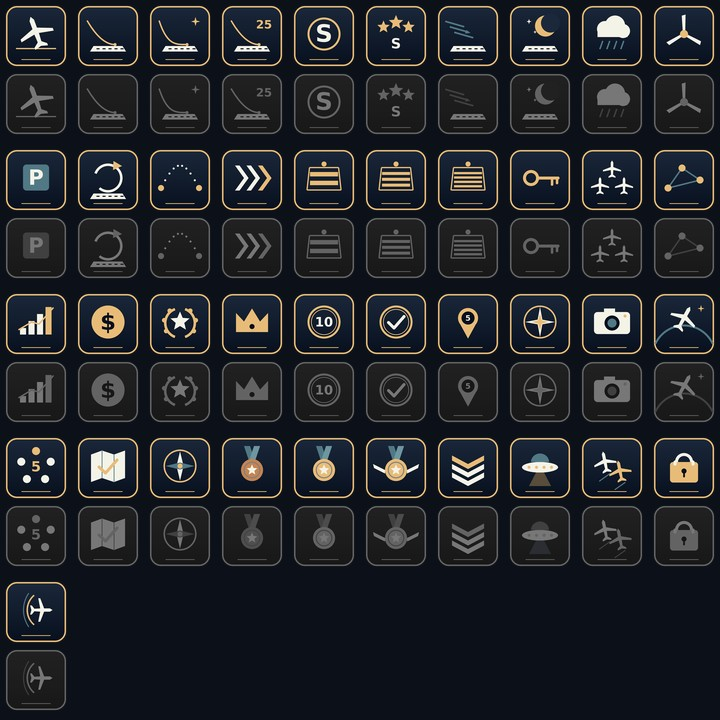
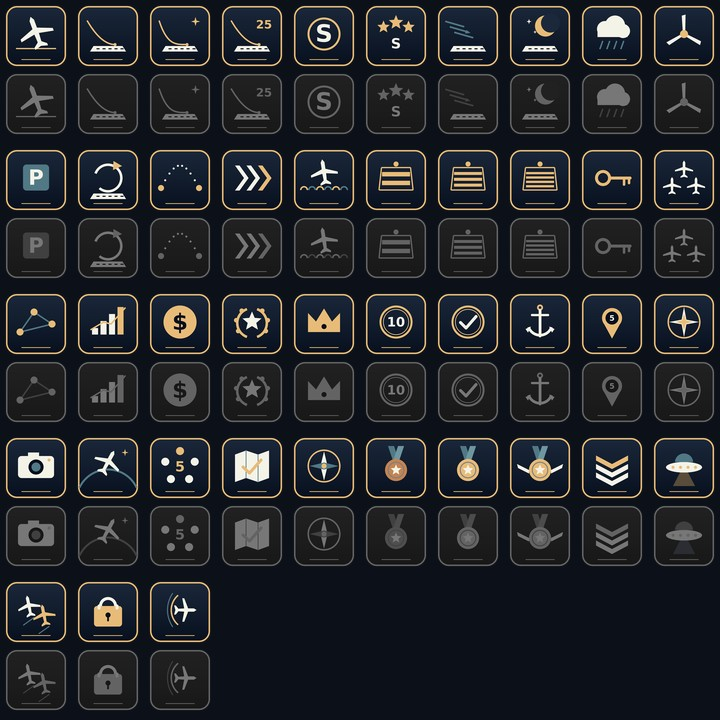
4.0 phase 5: the career on the water
- A seaplane charter on the job board: with a float plane to hand (owned
  or for hire under the pilot's licence), every board carries one job to
  a seaplane base, a little over the going rate. It is drawn from its own
  random stream, so the rest of the board and its long hauls are as they
  were. At a seaplane base every job is a float plane's.
- Two achievements: Splashdown (a first landing on the water) and Harbour
  Master (alight at all seven bases), with their Steam rows and icons.
  The islands' land airports and seaplane bases are stamped apart, so
  Every Field still counts the land airports alone.
- Loading pictures for the seven bases: the Kittiwake moored at the dock,
  seen from the shore beside it.
- Tests: the board at a base is floats only and every board at the capital
  has a charter (gameplay); Splashdown, Harbour Master and the separate
  stamp counts (profile).

Claude-Session: https://claude.ai/code/session_01PPEE1yZfPborst3wkozCEL

diff --git a/src/career.cpp b/src/career.cpp
@@ -890,6 +890,41 @@ void Career::refreshBoard() {
     for (auto& b : board) if ((b.to == c.to && b.type == c.type) || (c.type == CT_TOUR && b.type == CT_TOUR)) dup = true;   // (one photo flight a board)
     if (!dup) board.push_back(c);
   }
+  // a seaplane charter (docs/WINGS_OVER_WATER.md): when a float plane is to hand, one job more, to a seaplane base -
+  // drawn from a generator of its own, so the rest of the board (and the long hauls drawn after it) are as they were
+  {
+    int fl = -1;
+    for (int i : access) if (kAircraft[i].floats) fl = i;
+    std::vector<int> bases;
+    for (int i = 0; i < (int)g_world.airports.size(); i++) if (g_world.airports[i].water() && i != location) bases.push_back(i);
+    Rng rw(boardSeed * 2246822519u + location * 3266489917u + 0x5EA9u);
+    for (int k = 0; fl >= 0 && !bases.empty() && k < 8; k++) {
+      const int to = bases[rw.next() % bases.size()];
+      bool dup = false;
+      for (auto& b : board) dup |= b.to == to;
+      if (dup) continue;
+      const AircraftSpec& s = kAircraft[fl];
+      const Airport& A = g_world.airports[location]; const Airport& B = g_world.airports[to];
+      Contract c; c.from = location; c.to = to; c.id = fmt("W%u_%d", boardSeed, location);
+      const bool pax = license >= LIC_CPL && s.pax >= 2 && (rw.next() & 1);
+      c.type = pax ? CT_PAX : CT_CARGO;
+      if (pax) { c.pax = std::max(1, (int)(s.pax * rw.range(0.4f, 1.0f))); c.cargoKg = c.pax * 15; }
+      else c.cargoKg = std::max(20, (int)(s.cargoKg * rw.range(0.35f, 0.95f)) / 10 * 10);
+      c.minLicense = pax ? LIC_CPL : LIC_PPL;
+      if (canFly(c, fl) == SRC_NONE) continue;
+      c.payout = (int)((250 + contractKm(c) * (30 + c.cargoKg * 0.13f + c.pax * 16)) * rw.range(1.0f, 1.2f)) / 10 * 10;   // (a little over the going rate: few can fly it)
+      { int chapter = nextStory() ? nextStory()->chapter : 5; c.payout = (int)(c.payout * (1.f + 0.35f * chapter)) / 10 * 10; }
+      if (!atHome()) c.payout = c.payout * 115 / 100 / 10 * 10;
+      c.repBonusPct = repBonusPct();
+      c.payout = c.payout * (100 + c.repBonusPct) / 100 / 10 * 10;
+      c.title = pax ? fmt("Seaplane charter: %s to %s", paxNames[rw.next() % 8], B.name) : fmt("Seaplane charter: %s to %s", cargoNames[rw.next() % 10], B.name);
+      c.brief = fmt("%s from %s to the seaplane base at %s, where no runway goes: a float plane's work. Alight on the lane between the buoys and moor at the dock.",
+                    pax ? "Passengers" : "A load", A.name, B.name);
+      c.wx = W(rw.range(0, 360), rw.range(0, 12), 0, rw.range(0.05f, 0.3f), rw.range(0, 0.7f), rw.range(2500, 7000), rw.range(15, 50), 0, false, rw.range(8.f, 18.f));
+      board.push_back(c);
+      break;
+    }
+  }
   // cross-country work (the real Earth, docs/REAL_EARTH_PLAN.md E7): a load for a small field beyond this chart, 30 to
   // 180 km on - a strip, or a field no airline serves, which the long hauls never take - flown there yourself as a long
   // haul is, the charts on the way made ready as you fly. Two at most, the fields drawn afresh with each board

diff --git a/src/profile.cpp b/src/profile.cpp
@@ -24,6 +24,7 @@ const Achievement kAchievements[] = {
   {"go_around", "Better Safe", "Go around, then land", false},
   {"long_haul", "Long Haul", "Fly a single flight of 150 km or more", false},
   {"warp", "Warp Drive", "Cover 500 km in Time Warp", false},
+  {"splashdown", "Splashdown", "Land on the water in a float plane", false},
   // career
   {"lic_ppl", "Private Pilot", "Earn the private pilot licence", false},
   {"lic_cpl", "Commercial Pilot", "Earn the commercial pilot licence", false},
@@ -38,6 +39,7 @@ const Achievement kAchievements[] = {
   // exploring
   {"airports10", "Island Hopper", "Land at 10 different airports", false},
   {"airports_all", "Every Field", "Land at every airport in the islands", false},
+  {"harbours_all", "Harbour Master", "Alight at every seaplane base in the islands", false},
   {"sites5", "Sightseer", "Find 5 landmarks", false},
   {"sites_all", "Grand Tour", "Find every landmark in the islands", false},
   {"photo", "Shutterbug", "Complete a photo flight", false},
@@ -114,6 +116,14 @@ static bool inRegion(const std::string& key, const std::string& region, char mar
   return key.size() > region.size() && key[region.size()] == mark && key.compare(0, region.size(), region) == 0;
 }
 int Profile::islandAirports() const { int n = 0; for (auto& a : airports) n += !beyond(a, ':'); return n; }
+// the islands' stamps of one kind - its land airports, or its seaplane bases (docs/WINGS_OVER_WATER.md) - and how many
+// there are to collect
+int Profile::islandStamps(bool water) const {
+  int n = 0;
+  for (int i = 0; i < solaceAirportCount(); i++) { const Airport& a = solaceAirport(i); n += a.water() == water && airports.count(a.code); }
+  return n;
+}
+int islandFields(bool water) { int n = 0; for (int i = 0; i < solaceAirportCount(); i++) n += solaceAirport(i).water() == water; return n; }
 int Profile::islandSites() const { int n = 0; for (auto& s : sites) n += !beyond(s, '/'); return n; }
 int Profile::sitesBeyond() const { return (int)sites.size() - islandSites(); }
 std::vector<std::string> Profile::regionsLanded() const {

diff --git a/tests/gameplay_test.cpp b/tests/gameplay_test.cpp
@@ -1643,6 +1643,28 @@ struct GameTest {
                moored, waits, delivered, ok ? "ok" : "FAIL");
         fails += !ok;
       }
+      {   // the board on the water: at a seaplane base every job is a float plane's (none flies for a landplane there);
+          // from a land airport, with a float plane to hand, every board carries a seaplane charter to a base
+        Career k; k.license = LIC_CPL; k.money = 100000; k.region = g_world.regionId;
+        k.location = g_world.findAirport("PBL");
+        int jobs = 0, floatsOnly = 0;
+        for (unsigned seed = 1; seed <= 4; seed++) {
+          k.boardSeed = seed; k.refreshBoard();
+          for (const Contract& c : k.board) { jobs++; floatsOnly += k.canFly(c, kKittiwake) != Career::SRC_NONE && k.canFly(c, 1) == Career::SRC_NONE; }
+        }
+        k.location = g_world.findAirport("CAP");
+        int charters = 0;
+        for (unsigned seed = 1; seed <= 12; seed++) {
+          k.boardSeed = seed; k.refreshBoard();
+          int n = 0;
+          for (const Contract& c : k.board) n += g_world.airports[c.to].water() && c.title.rfind("Seaplane charter", 0) == 0 && k.canFly(c, kKittiwake) != Career::SRC_NONE;
+          charters += n == 1;
+        }
+        const bool ok = jobs >= 12 && floatsOnly == jobs && charters == 12;
+        printf("Board on the water: %d jobs at Palm Bay Lagoon in 4 draws, %d of them floats only; a seaplane charter on %d of 12 boards at the capital: %s\n",
+               jobs, floatsOnly, charters, ok ? "ok" : "FAIL");
+        fails += !ok;
+      }
       {   // a checkpoint job's leg ends safely at a field (the review of v3.44.0, CAR-5): stopped on a runway with checkpoints
           // left it waits to take off again, and the parking brake ends the leg there with the checkpoint flown carried; a
           // hold instruction ignored on that leg is still charged at the delivery, through a save and reload (CAR-6)

diff --git a/tests/profile_test.cpp b/tests/profile_test.cpp
@@ -143,6 +143,17 @@ struct GameTest {
       const bool beat = g.pbNew && fabsf(g.pbOld - 55.f) < 0.01f;
       FILE* f = fopen("profile.cfg", "r"); const bool wrote = f != nullptr; if (f) fclose(f);
       check(stamped && butter && best && beat && !wrote, "A touchdown at Far Isle: its stamp, Butter and Greaser, the type's softest, then a new best; no profile written by a test");
+      {   // on the water (docs/WINGS_OVER_WATER.md): a float plane alights at each seaplane base - Splashdown at the first,
+          // Harbour Master at the last; the islands' land airports (Every Field) are counted apart
+        g.plane.spec = &kAircraft[kKittiwake]; g.plane.onWater = true;
+        int bases = 0; bool first = false;
+        for (int i = 0; i < (int)g_world.airports.size(); i++)
+          if (g_world.airports[i].water()) { g.profileTouchdown(200.f, i); if (++bases == 1) first = g.profile.has("splashdown") && !g.profile.has("harbours_all"); }
+        const bool master = g.profile.has("harbours_all") && bases == islandFields(true) && g.profile.islandStamps(true) == bases;
+        const bool apart = g.profile.islandStamps(false) == 1 && islandFields(false) + bases == solaceAirportCount() && !g.profile.has("airports_all");
+        g.plane.spec = &s; g.plane.onWater = false;
+        check(first && master && apart && bases == 7, fmt("On the water: Splashdown at the first seaplane base, Harbour Master at the %dth; the land airports' stamps counted apart", bases));
+      }
       // over a landmark, low
       const auto& sites = profileSites();
       if (!sites.empty()) {

diff --git a/src/game_profile.cpp b/src/game_profile.cpp
@@ -31,7 +31,9 @@ void Game::award(const std::string& id) {
 }
 
 void Game::profileTouchdown(float fpm, int ap) {
-  if (botControl || researchFlight || militaryFlight || !plane.spec || ap < 0 || ap >= (int)g_world.airports.size()) return;
+  if (botControl || researchFlight || militaryFlight || !plane.spec) return;
+  if (plane.onWater) award("splashdown");   // (anywhere on the water: a base's lane or the open sea)
+  if (ap < 0 || ap >= (int)g_world.airports.size()) return;
   fpm = fabsf(fpm);
   const Airport& A = g_world.airports[ap];
   if (profile.airports.insert(airportStamp(A)).second) {   // (a region's stamps are its own: Profile::airports)
@@ -42,10 +44,10 @@ void Game::profileTouchdown(float fpm, int ap) {
       award("region_first");
       if (profile.regionsLanded().size() >= 5) award("regions5");
       if (n >= N) award("region_all");
-    } else {
-      const int n = profile.islandAirports();
-      toast(fmt("Airport stamp: %s %s (%d of %d)", A.code, A.name, n, N), vec3(1.f, 0.85f, 0.45f), false);
-      if (n >= N) award("airports_all");
+    } else {   // (the islands' land airports and their seaplane bases are collected apart)
+      const int n = profile.islandStamps(A.water()), of = islandFields(A.water());
+      toast(fmt(A.water() ? "Seaplane base stamp: %s %s (%d of %d)" : "Airport stamp: %s %s (%d of %d)", A.code, A.name, n, of), vec3(1.f, 0.85f, 0.45f), false);
+      if (n >= of) award(A.water() ? "harbours_all" : "airports_all");
     }
     if (profile.airports.size() >= 10) award("airports10");
   }

diff --git a/tools/steam/make_steam_assets.py b/tools/steam/make_steam_assets.py
@@ -172,6 +172,8 @@ def glyph(d, aid):
                               circle(d, 52, 160, 12, fill=GOLD), circle(d, 204, 160, 12, fill=GOLD)),
         'warp': lambda: ([d.polygon(P((60 + i * 46, 70), (96 + i * 46, 120), (60 + i * 46, 170), (78 + i * 46, 170), (114 + i * 46, 120), (78 + i * 46, 70)),
                                     fill=(GOLD if i == 2 else WHITE)) for i in range(3)]),
+        'splashdown': lambda: (plane(d, 128, 96, 1.5, WHITE, -0.15),
+                               [arc(d, 48 + i * 32, 168, 16, 180, 360, 6, TEAL if i % 2 else GOLD) for i in range(6)]),
         'lic_ppl': lambda: epaulette(d, 2),
         'lic_cpl': lambda: epaulette(d, 3),
         'lic_atp': lambda: epaulette(d, 4),
@@ -191,6 +193,9 @@ def glyph(d, aid):
                            circle(d, 128, 138, 10, fill=NAVY_BOTTOM + (255,))),
         'airports10': lambda: stamp(d, '10'),
         'airports_all': lambda: stamp(d, '', True),
+        'harbours_all': lambda: (circle(d, 128, 62, 12, outline=GOLD, w=7), line(d, [(128, 74), (128, 176)], 11, WHITE),
+                                 line(d, [(96, 92), (160, 92)], 9, WHITE), arc(d, 128, 124, 54, 20, 160, 11, WHITE),
+                                 d.polygon(P((70, 148), (92, 138), (80, 162)), fill=WHITE), d.polygon(P((186, 148), (164, 138), (176, 162)), fill=WHITE)),
         'sites5': lambda: pin(d, '5'),
         'sites_all': lambda: (circle(d, 128, 120, 66, outline=GOLD, w=6), star(d, 128, 120, 60, WHITE, 4, 0.22),
                               star(d, 128, 120, 34, GOLD, 4, 0.3)),

diff --git a/src/game.cpp b/src/game.cpp
@@ -7083,11 +7083,12 @@ void Game::debugScene(const std::string& name) {
     vec3 cam = ctr + r * (len * 0.3f + 200.f) - d * (len * 0.4f + 120.f);
     cam.y = std::max(a.elev, g_world.height(cam.x, cam.z)) + 90.f + len * 0.03f;
     vec3 look = ctr + d * (len * 0.05f) + vec3(0, 5.f, 0);
-    if (a.water() && a.dockLen > 0.f) {   // a seaplane base: over the shore behind its dock, out across the dock to the lane
-      const vec3 o(a.dockDirX, 0.f, a.dockDirZ), side = normalize(cross(o, vec3(0, 1, 0))), head = a.dockHead();
-      cam = vec3(a.dockX, 0.f, a.dockZ) - o * 110.f + side * 70.f;
-      cam.y = std::max(g_world.height(cam.x, cam.z), 0.f) + 45.f;
-      look = head + (ctr - head) * 0.25f;
+    if (a.water() && a.dockLen > 0.f) {   // a seaplane base: from the shore beside its dock, on the berth's side, the aircraft
+      // moored there with the water beyond
+      const vec3 o(a.dockDirX, 0.f, a.dockDirZ), side = normalize(cross(o, vec3(0, 1, 0)));
+      cam = vec3(a.dockX, 0.f, a.dockZ) - o * 10.f + side * 32.f;
+      cam.y = std::max(g_world.height(cam.x, cam.z), 0.f) + 9.f;
+      look = a.berth(4.6f) + o * 4.f + vec3(0, 1.2f, 0);
     }
     dbgCam = true; dbgFollow = false; dbgCamPos = cam; dbgCamLook = look;
     toasts.clear(); hint.clear(); uiHidden = true; return;

diff --git a/src/profile.h b/src/profile.h
@@ -36,6 +36,7 @@ struct Profile {
   // The islands' stamps are their airports' codes and their landmarks' ids; a region's begin with its id
   // ("pr1-0-0-17:UMA", "pr1-0-0-17/crater0"), so a code or a name may repeat from one region to the next
   int islandAirports() const;
+  int islandStamps(bool water) const;   // the islands' land airports (false) or seaplane bases (true) stamped
   int islandSites() const;
   int sitesBeyond() const;                          // landmarks found in the regions beyond the islands
   std::vector<std::string> regionsLanded() const;   // the regions with an airport stamp, by id
@@ -48,6 +49,7 @@ struct Airport;
 std::string airportStamp(const Airport& a);   // its key in Profile::airports, in g_world
 // A region's airports, wherever g_world is (its recipe made the first time, and its count kept; 0 for an unknown id)
 int regionAirportCount(const std::string& region);
+int islandFields(bool water);   // the islands' land airports (false) or seaplane bases (true): how many
 
 // The landmarks a pilot can find in g_world: each one's name and a point at its middle. In the islands, from the
 // world as it was built (the wind farm, the stone circle, the wreck, the platform, the observatory, the star fort,

diff --git a/src/game_ui.cpp b/src/game_ui.cpp
@@ -2033,7 +2033,8 @@ void Game::drawHubLogbook(float x, float y, float w, float h) {
       auto progress = [&](const std::string& id) -> std::string {
         if (id == "butter25") return fmt("%d / 25", (int)profile.count("butters"));
         if (id == "airports10") return fmt("%d / 10", std::min(nAp, 10));
-        if (id == "airports_all") return fmt("%d / %d", profile.islandAirports(), solaceAirportCount());
+        if (id == "airports_all") return fmt("%d / %d", profile.islandStamps(false), islandFields(false));
+        if (id == "harbours_all") return fmt("%d / %d", profile.islandStamps(true), islandFields(true));
         if (id == "sites5") return fmt("%d / 5", std::min(nSites, 5));
         if (id == "sites_all") return solaceSiteCount() > 0 ? fmt("%d / %d", islandSites, solaceSiteCount()) : fmt("%d found", islandSites);
         if (id == "regions5") return fmt("%d / 5", std::min((int)profile.regionsLanded().size(), 5));

diff --git a/docs/WINGS_OVER_WATER.md b/docs/WINGS_OVER_WATER.md
@@ -133,6 +133,16 @@ accident. Sinking through 150 m within 4 km of a field, the aircraft says once w
 the field is ("Gear is up for a water landing", or, wrong, "Gear is DOWN - a water landing: raise it", with a chime).
 The HUD's GEAR warning follows the same rule for an amphibian: wheels down near a water lane, or up near a runway.
 
+### The career on the water
+
+There is no seaplane lesson in the story: the story is one chain whose place every save keeps, so a new step would move
+every one after it. The water comes to the career through the job board instead. With a float plane to hand (owned or
+for hire under the pilot's licence), every board carries a seaplane charter to one of the bases, a little over the going
+rate. It is drawn from a random stream of its own, so the rest of the board and its long hauls are exactly what they
+were. At a seaplane base every job on the board is a float plane's (the dispatch rule allows nothing else there). The pilot's profile collects the bases apart from the land airports:
+"Splashdown" for the first landing on the water, "Harbour Master" for alighting at all seven, while "Every Field" still
+counts the land airports alone.
+
 ## Phases
 
 Each phase is built, tested and committed on its own.
